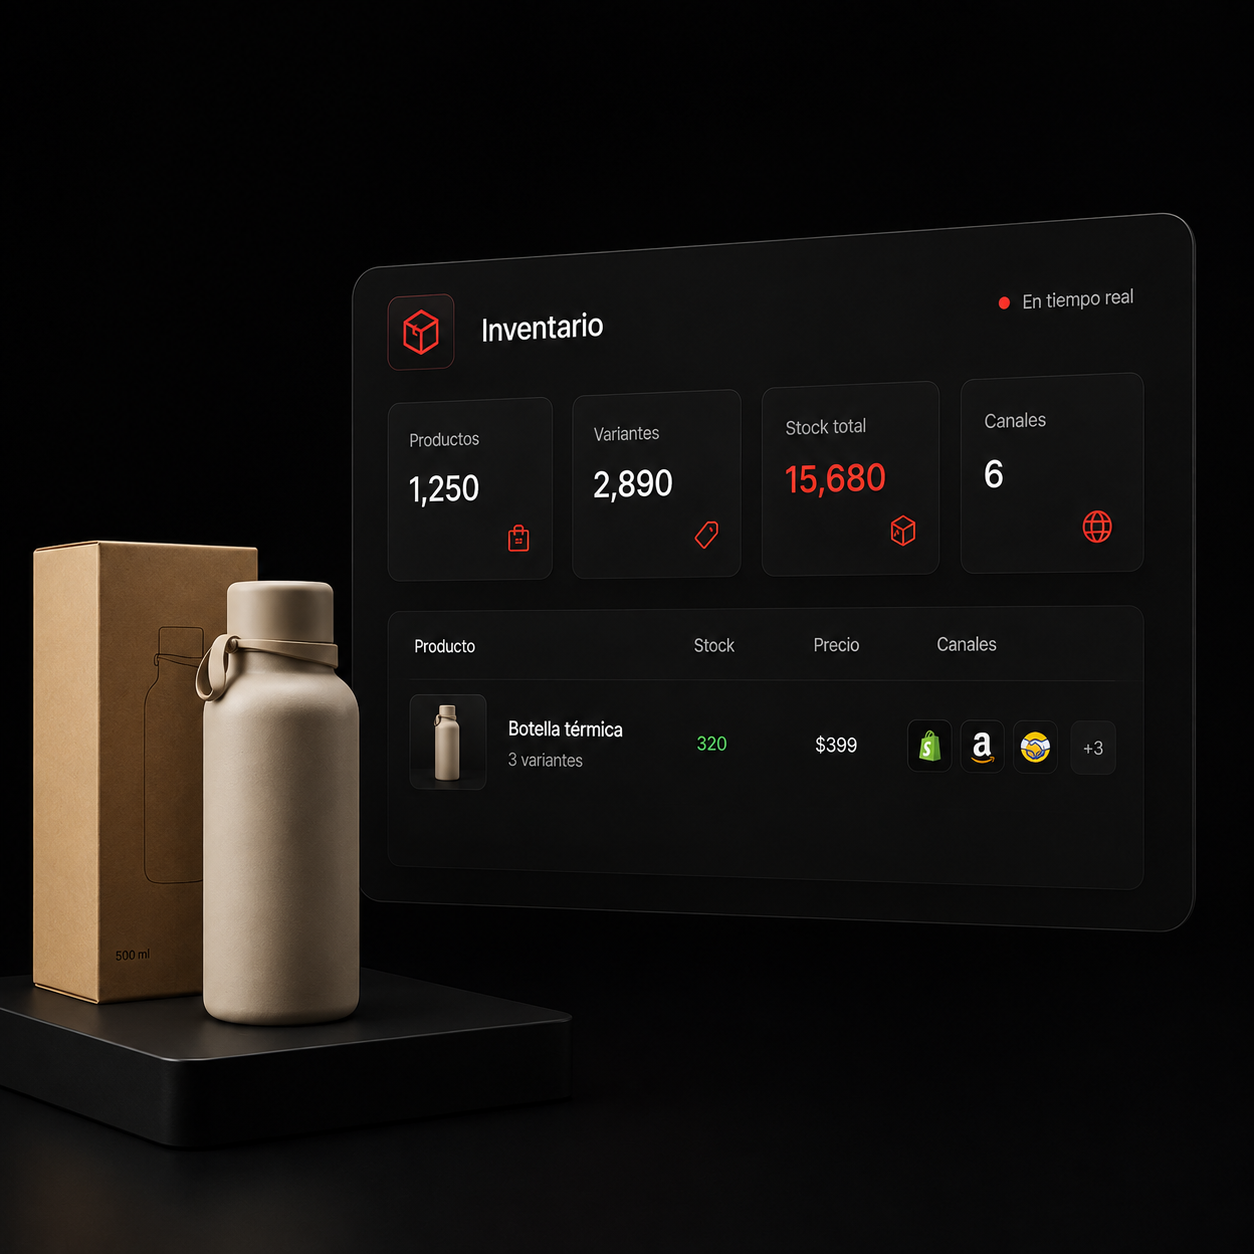
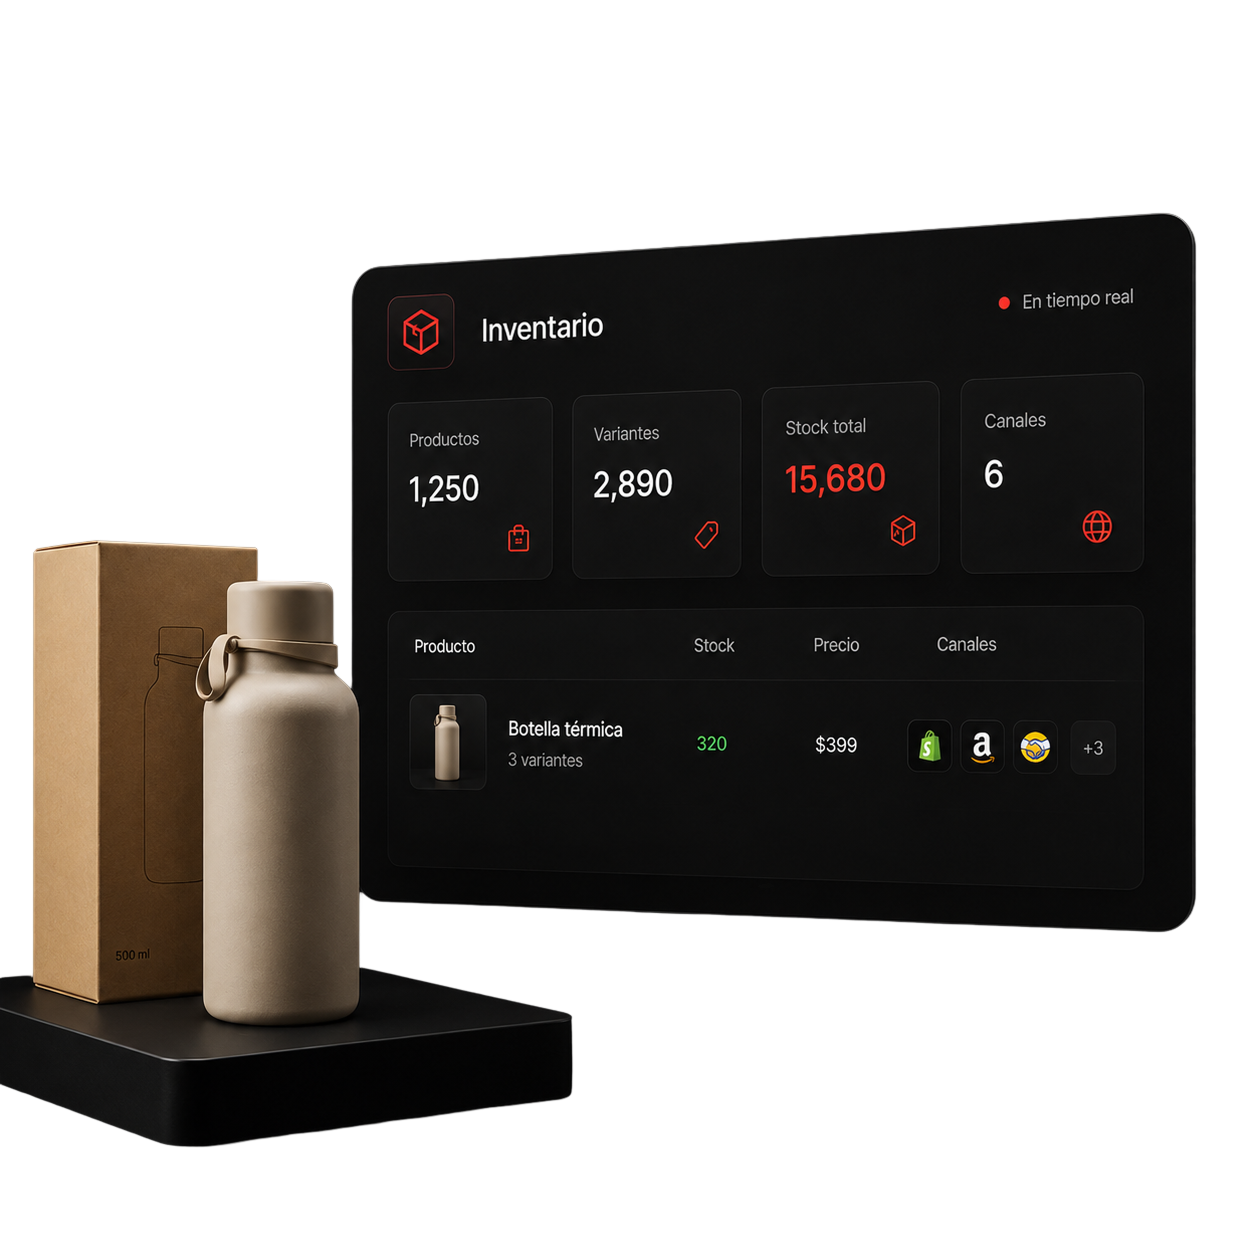
tienda/planes: card de cobro animada, imágenes de administración y 'dónde vender', alineación y label de recomendado
- 'Cobra como tus clientes prefieran': reemplaza imagen estática por la card de checkout animada (método de pago que cicla), reutilizada del showcase del home
- 'Administra todo': imágenes reales tienda-inventario/clientes/reportes/sucursales (y actualiza tienda-inventario)
- 'Vende donde estén': tienda en línea object-contain (no se corta); POS -> tienda-pos; marketplaces -> tienda-marketplace
- 'Tu tienda, con pagos y envíos integrados': logos con mt-auto para alinear los 'Conoce más' de ambas cards
- planes: label 'Recomendado' arriba del título de Básico en la tabla

diff --git a/src/components/T1TiendaCobraCard.tsx b/src/components/T1TiendaCobraCard.tsx
@@ -1,0 +1,70 @@
+"use client";
+
+import Image from "next/image";
+import { useEffect, useState } from "react";
+
+const FONT = "var(--font-manrope-var), sans-serif";
+
+const PAY_METHODS = [
+  { name: "Visa", src: "/img/icons/visa.svg" },
+  { name: "Mastercard", src: "/img/icons/mastercard.svg" },
+  { name: "SPEI", src: "/img/icons/spei.svg" },
+  { name: "Kueski", src: "/img/icons/kueski.svg" },
+];
+
+function useCycle(len: number, ms: number) {
+  const [i, setI] = useState(0);
+  useEffect(() => {
+    const t = setInterval(() => setI((v) => (v + 1) % len), ms);
+    return () => clearInterval(t);
+  }, [len, ms]);
+  return i;
+}
+
+function Row({ label, value, green = false }: { label: string; value: string; green?: boolean }) {
+  return (
+    <div className="flex items-center justify-between">
+      <span className="text-white/45">{label}</span>
+      <span className={green ? "font-medium text-[#4ADE80]" : "font-medium text-white/75"}>{value}</span>
+    </div>
+  );
+}
+
+/* Checkout animado: el método de pago cicla (Visa · Mastercard · SPEI · Kueski). */
+export default function T1TiendaCobraCard() {
+  const i = useCycle(PAY_METHODS.length, 1500);
+  const m = PAY_METHODS[i];
+  return (
+    <div className="w-[320px] rounded-[18px] border border-white/[0.14] bg-white/[0.06] p-5 backdrop-blur-sm" style={{ boxShadow: "0 24px 60px rgba(0,0,0,0.5), inset 0 1px 0 rgba(255,255,255,0.14)", fontFamily: FONT }}>
+      <p className="text-[14px] font-bold text-white">Resumen de tu compra</p>
+      <div className="mt-4 flex items-center gap-3 border-b border-white/10 pb-4">
+        <div className="flex h-[46px] w-[46px] items-center justify-center overflow-hidden rounded-[10px] bg-white/[0.08]">
+          <Image src="/img/tennis-big.png" alt="" width={40} height={28} className="object-contain" />
+        </div>
+        <div className="flex-1">
+          <p className="text-[13px] font-medium text-white">Sneakers Court</p>
+          <p className="text-[12px] text-white/45">Talla 27 · x1</p>
+        </div>
+        <span className="text-[13px] font-semibold text-white">$1,890</span>
+      </div>
+      <div className="mt-3 flex flex-col gap-1.5 text-[12px]">
+        <Row label="Subtotal" value="$1,890.00" />
+        <Row label="Envío" value="Gratis" green />
+        <Row label="IVA" value="$302.40" />
+      </div>
+      <div className="mt-3 flex items-center justify-between border-t border-white/10 pt-3">
+        <span className="text-[14px] font-bold text-white">Total</span>
+        <span className="text-[18px] font-bold text-white">$2,192.40</span>
+      </div>
+      {/* Método de pago (cicla) */}
+      <div className="mt-3 flex items-center justify-between rounded-[10px] border border-white/12 px-3 py-2.5">
+        <span className="text-[12px] text-white/50">Método de pago</span>
+        <span key={i} className="flex items-center gap-2" style={{ animation: "fadeSlideIn 0.35s ease-out" }}>
+          <span className="flex h-[22px] items-center justify-center rounded-[5px] bg-white px-1.5"><Image src={m.src} alt={m.name} width={34} height={22} className="h-[14px] w-auto object-contain" /></span>
+          <span className="text-[12px] font-semibold text-white">{m.name}</span>
+        </span>
+      </div>
+      <div className="mt-3 w-full rounded-[12px] bg-black py-3 text-center text-[13px] font-semibold text-white">Pagar ahora</div>
+    </div>
+  );
+}

diff --git a/src/components/T1TiendaSecciones.tsx b/src/components/T1TiendaSecciones.tsx
@@ -2,6 +2,7 @@
 
 import { useRef, useState } from "react";
 import Image from "next/image";
+import T1TiendaCobraCard from "@/components/T1TiendaCobraCard";
 
 /* ══════════ 1 · Tu tienda con pagos y envíos integrados ══════════ */
 export function T1TiendaIncluido() {
@@ -37,7 +38,7 @@ export function T1TiendaIncluido() {
             <a key={it.title} href={it.href} className="group flex flex-col rounded-[18px] border border-white/[0.08] bg-[#1A1A1D] p-7 no-underline transition-colors hover:border-white/20">
               <h3 className="font-sora text-[22px] font-normal text-white" style={{ letterSpacing: "-0.02em" }}>{it.title}</h3>
               <p className="mt-2.5 font-inter text-[15px] font-light leading-relaxed text-white/60 tablet:text-[16px]">{it.desc}</p>
-              <div className="mt-6 flex items-center gap-3">
+              <div className="mt-auto flex items-center gap-3 pt-6">
                 {it.type === "card"
                   ? it.icons.map((src) => (
                       <Image key={src} src={src} alt="" width={80} height={52} className="h-[30px] w-auto shrink-0 object-contain" />
@@ -121,9 +122,9 @@ export function T1TiendaMarketplaces() {
 const ADMIN_CARDS = [
   { title: "Catálogo con IA", desc: "Sube una foto y la IA genera título, descripción, categoría y atributos al instante.", img: "/img/admin-catalogo.png", w: 1248, h: 1024 },
   { title: "Inventario centralizado", desc: "Controla inventario, precios y variantes; se sincroniza en todos tus canales en tiempo real.", img: "/img/tienda-inventario.png", w: 1254, h: 1254 },
-  { title: "Reportes en vivo", desc: "Ventas, tráfico y rendimiento en tiempo real para decidir con datos.", img: "/img/graficas-reportes.png", w: 1190, h: 1322 },
-  { title: "Clientes", desc: "Conoce a tus clientes, su historial de compras y segméntalos para vender más.", img: "/img/admin-historico.png", w: 1248, h: 1024 },
-  { title: "Multi-sucursales", desc: "Gestiona varias sucursales o almacenes con inventario y ventas por ubicación.", img: "/img/pos-dispositivos.png", w: 1248, h: 1024 },
+  { title: "Reportes en vivo", desc: "Ventas, tráfico y rendimiento en tiempo real para decidir con datos.", img: "/img/tienda-reportes.png", w: 1254, h: 1254 },
+  { title: "Clientes", desc: "Conoce a tus clientes, su historial de compras y segméntalos para vender más.", img: "/img/tienda-clientes.png", w: 1254, h: 1254 },
+  { title: "Multi-sucursales", desc: "Gestiona varias sucursales o almacenes con inventario y ventas por ubicación.", img: "/img/tienda-sucursales.png", w: 1536, h: 1024 },
 ];
 export function T1TiendaAdministracion() {
   const ref = useRef<HTMLDivElement>(null);
@@ -203,8 +204,8 @@ export function T1TiendaPagos() {
               <svg width="16" height="16" viewBox="0 0 18 18" fill="none"><path d="M6.75 4.5 11.25 9l-4.5 4.5" stroke="currentColor" strokeWidth="1.7" strokeLinecap="round" strokeLinejoin="round" /></svg>
             </a>
           </div>
-          <div className="overflow-hidden rounded-[20px]">
-            <Image src="/img/dashboard-pagos.png" alt="Panel de pagos T1" width={1440} height={1080} className="block h-auto w-full" sizes="(max-width: 768px) 92vw, 560px" />
+          <div className="flex justify-center tablet:justify-end">
+            <T1TiendaCobraCard />
           </div>
         </div>
       </div>

diff --git a/src/components/T1TiendaDondeVender.tsx b/src/components/T1TiendaDondeVender.tsx
@@ -14,6 +14,7 @@ const ITEMS = [
     cta: "Conoce más",
     ctaHref: "/productos/t1tienda/tienda-con-ia",
     image: "/img/incluye-responsive-v2.png",
+    fit: "contain" as const,
   },
   {
     id: "market",
@@ -21,7 +22,8 @@ const ITEMS = [
     description: "Publica y vende en Mercado Libre, Amazon, TikTok Shop y más desde un solo panel.",
     cta: "Conoce más",
     ctaHref: "/productos/t1tienda/marketplaces",
-    image: "/img/importa.png",
+    image: "/img/tienda-marketplace.png",
+    fit: "contain" as const,
   },
   {
     id: "pos",
@@ -29,7 +31,7 @@ const ITEMS = [
     description: "Vende en tu tienda física con un POS integrado a inventario, pagos y envíos.",
     cta: "Conoce más",
     ctaHref: "/productos/t1tienda/punto-de-venta",
-    image: "/img/pos-dispositivos.png",
+    image: "/img/tienda-pos.png",
     fit: "contain" as const,
   },
 ];

diff --git a/src/components/T1TiendaPrecios.tsx b/src/components/T1TiendaPrecios.tsx
@@ -180,8 +180,8 @@ export default function T1TiendaPrecios() {
                   <th className="sticky left-0 z-[1] bg-[#0e0d0d] pb-4 pr-4" />
                   {PLANS.map((p) => (
                     <th key={p.name} className="px-3 pb-4 text-center">
+                      {p.featured && <span className="mx-auto mb-1.5 block w-fit rounded-full bg-[#DB3B2B] px-2.5 py-1 font-inter text-[10px] font-bold text-white">Recomendado</span>}
                       <span className="font-sora text-[16px] font-medium text-white">{p.name}</span>
-                      {p.featured && <span className="mx-auto mt-1.5 inline-block rounded-full bg-[#DB3B2B] px-2.5 py-1 font-inter text-[10px] font-bold text-white">Recomendado</span>}
                     </th>
                   ))}
                 </tr>
